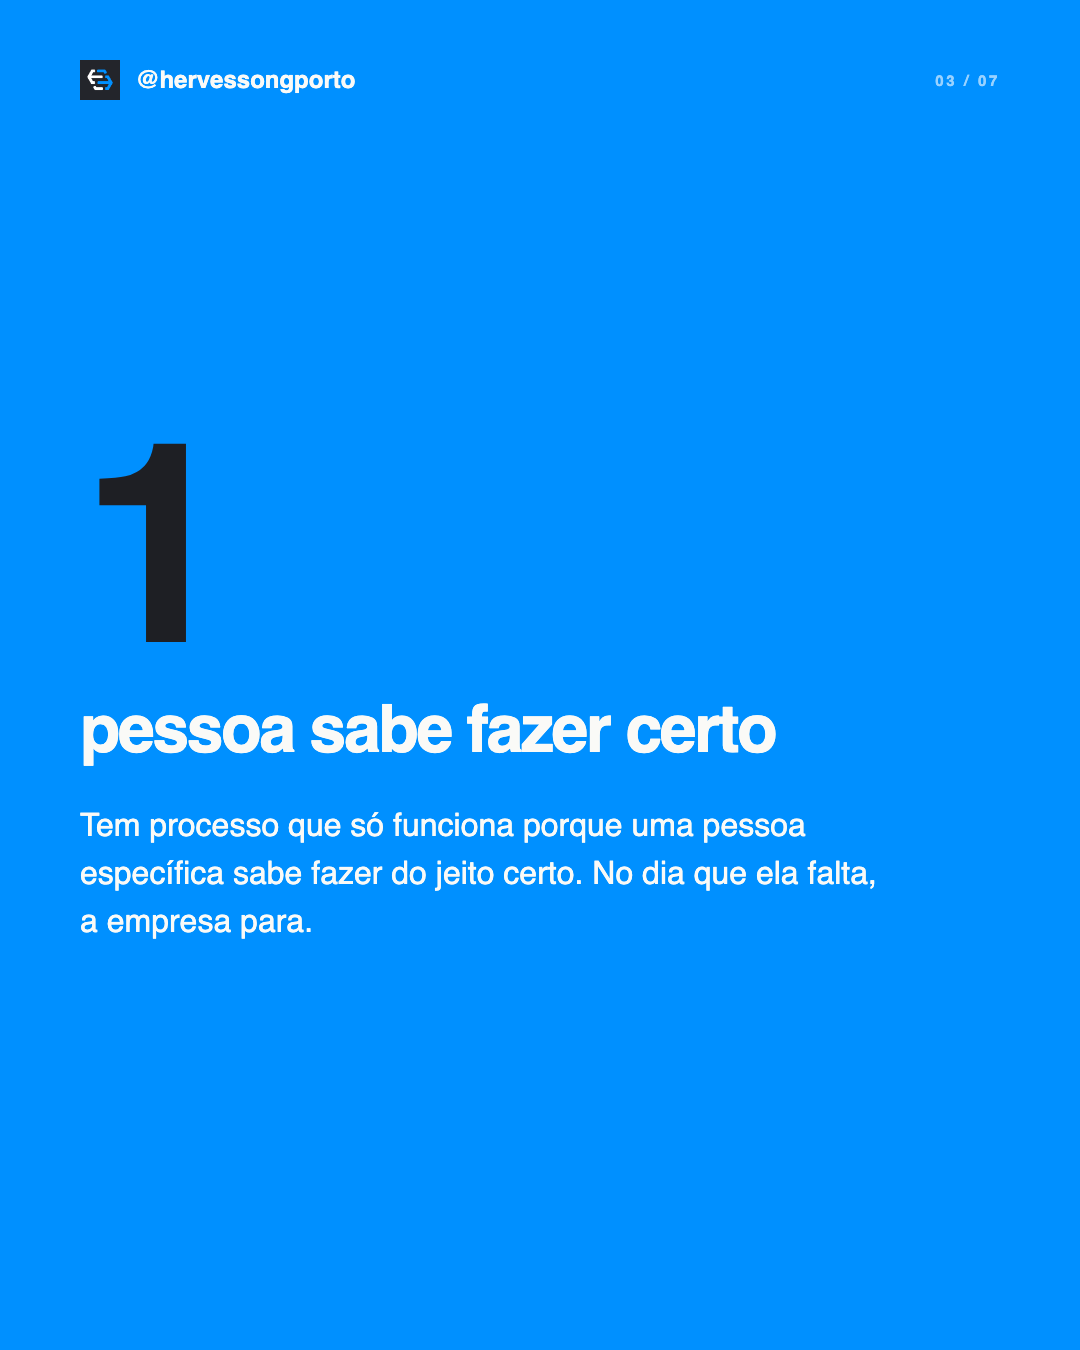
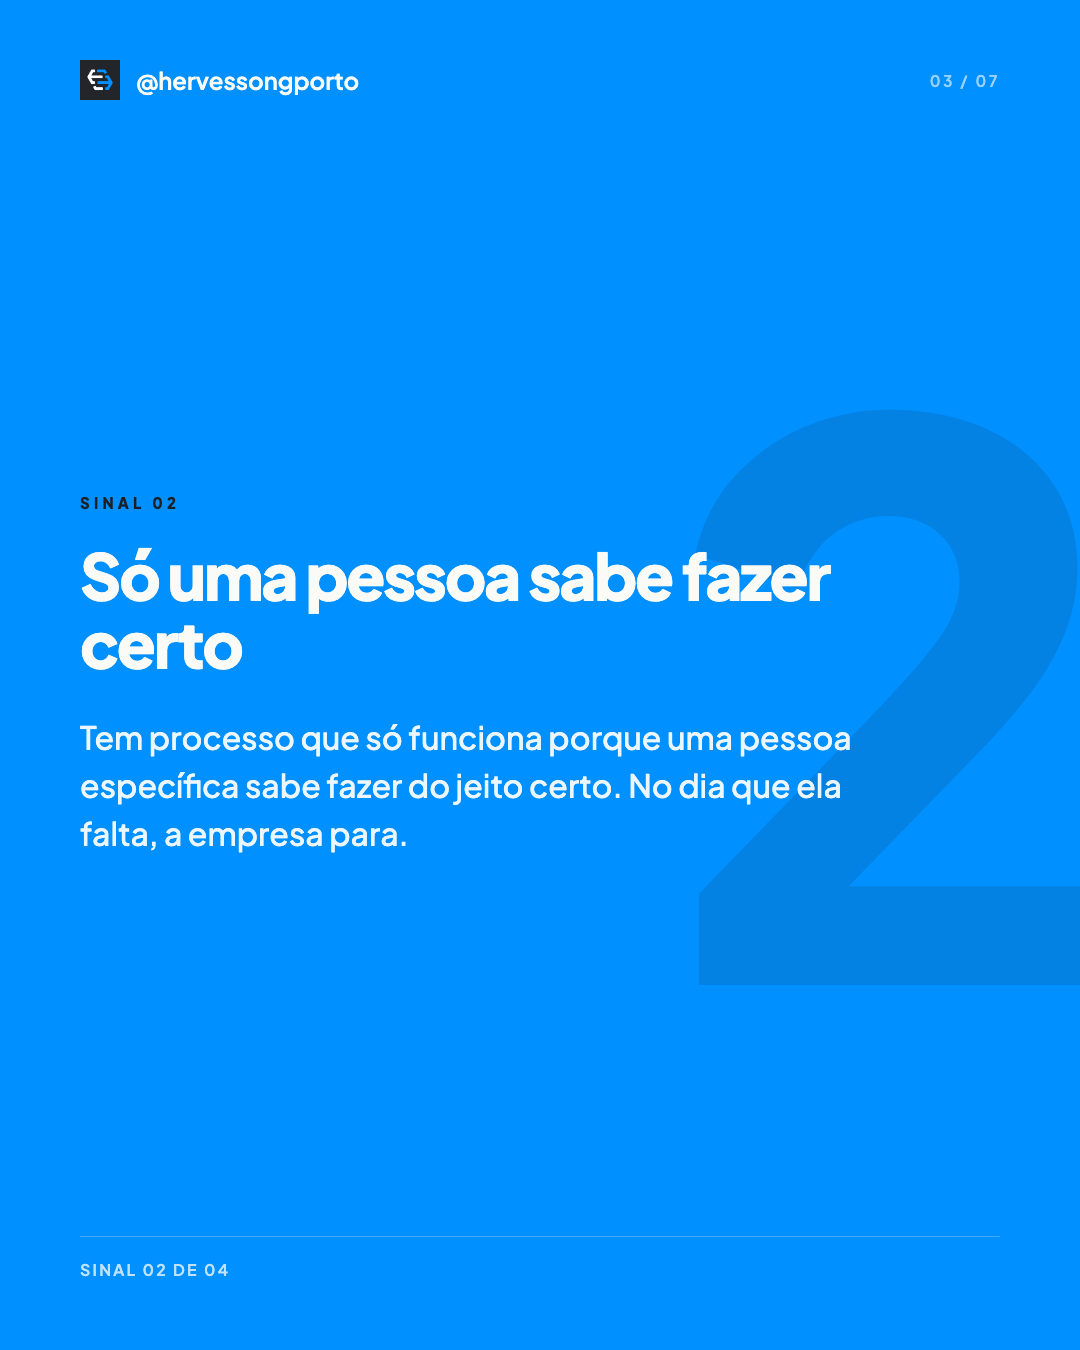
Revisa carrossel ti-forte: capa e CTA novos, layouts numerados e correção da fonte no render

diff --git a/marketing/conteudo/carrossel-ti-forte-2026-07-04/carrossel.html b/marketing/conteudo/carrossel-ti-forte-2026-07-04/carrossel.html
@@ -37,6 +37,7 @@
     display:flex;
     justify-content:space-between;
     align-items:center;
+    z-index:2;
   }
   .brand-row img{height:40px; width:auto;}
   .brand-left{
@@ -53,7 +54,7 @@
 
   .eyebrow{
     font-size:15px; font-weight:800; text-transform:uppercase;
-    letter-spacing:0.28em; color:var(--accent); margin-bottom:28px;
+    letter-spacing:0.28em; color:var(--accent); margin-bottom:30px;
   }
   .bg-accent .eyebrow{color:var(--dark);}
 
@@ -68,39 +69,80 @@
     max-width:880px;
   }
   h2.title{
-    font-size:66px; font-weight:800; line-height:1.05; letter-spacing:-0.035em;
-    max-width:880px; margin-bottom:36px;
+    font-size:64px; font-weight:800; line-height:1.05; letter-spacing:-0.035em;
+    max-width:880px; margin-bottom:32px;
   }
   p.body{
-    font-size:32px; font-weight:500; line-height:1.5; max-width:820px;
+    font-size:32px; font-weight:500; line-height:1.5; max-width:800px;
+    position:relative; z-index:1;
   }
   .bg-cream p.body{color:#444;}
 
-  .handle{
-    font-size:17px; font-weight:600; margin-top:50px;
+  /* NÚMERO — numeral sólido acima do título */
+  .numero-solido{
+    font-size:230px; font-weight:800; color:var(--accent);
+    line-height:0.9; margin-bottom:24px;
   }
 
-  .numero-gigante{
-    font-size:280px; font-weight:800; color:var(--accent);
-    line-height:1; margin-bottom:10px;
+  /* NÚMERO — numeral gigante em marca d'água à direita */
+  .numero-marca{
+    position:absolute;
+    font-size:760px; font-weight:800; line-height:1;
+    right:-40px; top:50%; transform:translateY(-50%);
+    z-index:0; pointer-events:none;
   }
-  .bg-accent .numero-gigante{color:var(--dark);}
+  .bg-cream .numero-marca{color:rgba(0,144,255,0.10);}
+  .bg-accent .numero-marca{color:rgba(30,31,36,0.12);}
+
+  .content{position:relative; z-index:1;}
+
+  /* Dica de arrastar (capa) */
+  .swipe-hint{
+    position:absolute; bottom:70px; left:80px;
+    font-size:20px; font-weight:600; letter-spacing:0.06em;
+    color:var(--muted-dark);
+  }
+
+  /* Rodapé fino dos slides internos escuros */
+  .footer-line{
+    position:absolute; bottom:70px; left:80px; right:80px;
+    border-top:1px solid rgba(255,255,255,0.12);
+    padding-top:22px;
+    font-size:16px; font-weight:600; letter-spacing:0.14em;
+    text-transform:uppercase;
+  }
+  .footer-line.on-dark{color:var(--muted-dark);}
+  .footer-line.on-cream{border-top-color:rgba(30,31,36,0.14); color:var(--muted-light);}
+  .footer-line.on-accent{border-top-color:rgba(255,255,255,0.25); color:rgba(255,255,255,0.75);}
 
   .quote-mark{
-    font-size:220px; font-weight:800; color:var(--accent);
-    opacity:0.18; position:absolute; top:120px; left:70px; line-height:1;
+    font-size:340px; font-weight:800; color:var(--accent);
+    opacity:0.16; position:absolute; top:100px; left:60px; line-height:1;
+    z-index:0;
   }
   .quote-text{
-    font-size:58px; font-weight:800; line-height:1.15; letter-spacing:-0.03em;
+    font-size:56px; font-weight:800; line-height:1.18; letter-spacing:-0.03em;
     max-width:860px; position:relative; z-index:1;
+  }
+  .quote-attr{
+    font-size:24px; font-weight:600; color:var(--muted-dark);
+    margin-top:44px; position:relative; z-index:1;
   }
 
   .cta-headline{
-    font-size:72px; font-weight:800; line-height:1.05; letter-spacing:-0.035em;
-    max-width:820px; margin-bottom:20px;
+    font-size:64px; font-weight:800; line-height:1.08; letter-spacing:-0.035em;
+    max-width:880px; margin-bottom:46px;
   }
-  .cta-sub{
-    font-size:28px; font-weight:500; opacity:0.9; margin-bottom:60px;
+  .cta-btn{
+    display:inline-block;
+    background:var(--dark); color:var(--off-white);
+    font-size:27px; font-weight:700;
+    padding:28px 68px; border-radius:999px;
+    letter-spacing:0.01em;
+  }
+  .cta-handle{
+    font-size:24px; font-weight:600; margin-top:40px;
+    color:rgba(255,255,255,0.85);
   }
 </style>
 </head>
@@ -114,11 +156,14 @@
       <span class="handle-top">@hervessongporto</span>
     </div>
   </div>
-  <div class="eyebrow">TI &amp; ESTRATÉGIA</div>
-  <h1 class="title">Sem TI forte,<br>sua empresa<br>trava sozinha</h1>
+  <div class="content">
+    <div class="eyebrow">TI APLICADA A NEGÓCIOS</div>
+    <h1 class="title">Decidir no feeling<br>tá custando caro<br>pra sua empresa</h1>
+  </div>
+  <div class="swipe-hint">arrasta pro lado &rarr;</div>
 </div>
 
-<!-- SLIDE 2 — TEXTO (claro) -->
+<!-- SLIDE 2 — NÚMERO sólido (claro) -->
 <div class="slide bg-cream">
   <div class="brand-row">
     <div class="brand-left">
@@ -127,12 +172,15 @@
     </div>
     <span class="counter on-cream">02 / 07</span>
   </div>
-  <div class="eyebrow">O PRIMEIRO SINAL</div>
-  <h2 class="title">Decisão no feeling</h2>
-  <p class="body">Toda decisão importante você toma no feeling, porque o dado que deveria te ajudar tá espalhado em três planilhas diferentes, ou não existe.</p>
+  <div class="content">
+    <div class="numero-solido">1</div>
+    <h2 class="title">Decisão no feeling</h2>
+    <p class="body">Toda decisão importante você toma no feeling, porque o dado que deveria te ajudar tá espalhado em três planilhas diferentes, ou não existe.</p>
+  </div>
+  <div class="footer-line on-cream">Sinal 01 de 04</div>
 </div>
 
-<!-- SLIDE 3 — NÚMERO (destaque) -->
+<!-- SLIDE 3 — NÚMERO marca d'água (destaque) -->
 <div class="slide bg-accent">
   <div class="brand-row">
     <div class="brand-left">
@@ -141,12 +189,16 @@
     </div>
     <span class="counter on-accent">03 / 07</span>
   </div>
-  <div class="numero-gigante">1</div>
-  <h2 class="title">pessoa sabe fazer certo</h2>
-  <p class="body">Tem processo que só funciona porque uma pessoa específica sabe fazer do jeito certo. No dia que ela falta, a empresa para.</p>
+  <div class="numero-marca">2</div>
+  <div class="content">
+    <div class="eyebrow">Sinal 02</div>
+    <h2 class="title">Só uma pessoa sabe fazer certo</h2>
+    <p class="body" style="margin-top:36px; color:rgba(255,255,255,0.92);">Tem processo que só funciona porque uma pessoa específica sabe fazer do jeito certo. No dia que ela falta, a empresa para.</p>
+  </div>
+  <div class="footer-line on-accent">Sinal 02 de 04</div>
 </div>
 
-<!-- SLIDE 4 — TEXTO (escuro) -->
+<!-- SLIDE 4 — NÚMERO sólido (escuro) -->
 <div class="slide bg-dark">
   <div class="brand-row">
     <div class="brand-left">
@@ -155,12 +207,15 @@
     </div>
     <span class="counter on-dark">04 / 07</span>
   </div>
-  <div class="eyebrow">FERRAMENTA NÃO É SISTEMA</div>
-  <h2 class="title">Nada conversa com nada</h2>
-  <p class="body">Planilha aqui, WhatsApp ali, sistema que não conversa com nada. Cada ferramenta nova vira mais um lugar pra procurar informação, não menos.</p>
+  <div class="content">
+    <div class="numero-solido">3</div>
+    <h2 class="title">Nada conversa com nada</h2>
+    <p class="body">Planilha aqui, WhatsApp ali, sistema que não conversa com nada. Cada ferramenta nova vira mais um lugar pra procurar informação, não menos.</p>
+  </div>
+  <div class="footer-line on-dark">Sinal 03 de 04</div>
 </div>
 
-<!-- SLIDE 5 — TEXTO (claro) -->
+<!-- SLIDE 5 — NÚMERO marca d'água (claro) -->
 <div class="slide bg-cream">
   <div class="brand-row">
     <div class="brand-left">
@@ -169,9 +224,13 @@
     </div>
     <span class="counter on-cream">05 / 07</span>
   </div>
-  <div class="eyebrow">O ERRO MAIS COMUM</div>
-  <h2 class="title">Crescer multiplica o caos</h2>
-  <p class="body">Crescer sem estrutura de TI não resolve o caos, multiplica ele. Mais cliente, mais gente, mais processo manual quebrando ao mesmo tempo.</p>
+  <div class="numero-marca">4</div>
+  <div class="content">
+    <div class="eyebrow">Sinal 04</div>
+    <h2 class="title">Crescer multiplica o caos</h2>
+    <p class="body" style="margin-top:36px;">Crescer sem estrutura de TI não resolve o caos, multiplica ele. Mais cliente, mais gente, mais processo manual quebrando ao mesmo tempo.</p>
+  </div>
+  <div class="footer-line on-cream">Sinal 04 de 04</div>
 </div>
 
 <!-- SLIDE 6 — CITAÇÃO (escuro) -->
@@ -184,7 +243,10 @@
     <span class="counter on-dark">06 / 07</span>
   </div>
   <div class="quote-mark">&ldquo;</div>
-  <p class="quote-text">Você não precisa virar uma empresa de tecnologia. Precisa de alguém pensando em TI do jeito que pensa em estratégia, antes do problema aparecer, não depois.</p>
+  <div class="content">
+    <p class="quote-text">Você não precisa virar uma empresa de tecnologia. Precisa de alguém pensando em TI do jeito que pensa em estratégia.</p>
+    <div class="quote-attr">— Hervesson Porto</div>
+  </div>
 </div>
 
 <!-- SLIDE 7 — CTA FINAL (destaque) -->
@@ -197,8 +259,9 @@
     <span class="counter on-accent">07 / 07</span>
   </div>
   <img src="../../../identidade/logo-dark.png" alt="logo" style="height:90px; margin-bottom:50px;">
-  <div class="cta-headline">Bora tirar sua<br>empresa do improviso?</div>
-  <div class="cta-sub">Fala comigo</div>
+  <div class="cta-headline">Vamos fazer a tecnologia<br>trabalhar pra sua empresa?</div>
+  <div><span class="cta-btn">Fala comigo</span></div>
+  <div class="cta-handle">@hervessongporto</div>
 </div>
 
 </body>

diff --git a/marketing/conteudo/carrossel-ti-forte-2026-07-04/render.js b/marketing/conteudo/carrossel-ti-forte-2026-07-04/render.js
@@ -4,10 +4,11 @@ const path = require('path');
 (async () => {
   const browser = await chromium.launch();
   const page = await browser.newPage({ viewport: { width: 1080, height: 1350 } });
-  await page.route(/fonts\.(googleapis|gstatic)\.com/, route => route.abort());
   const htmlPath = path.join(__dirname, 'carrossel.html');
-  await page.goto('file://' + htmlPath, { waitUntil: 'domcontentloaded', timeout: 10000 }).catch(() => {});
-  await page.waitForTimeout(500);
+  await page.goto('file://' + htmlPath, { waitUntil: 'networkidle', timeout: 30000 });
+  // garante que as web fonts terminaram de carregar antes do screenshot
+  await page.evaluate(() => document.fonts.ready);
+  await page.waitForTimeout(300);
 
   const slides = await page.$$('.slide');
   for (let i = 0; i < slides.length; i++) {

diff --git a/marketing/conteudo/carrossel-ti-forte-2026-07-04/texto.md b/marketing/conteudo/carrossel-ti-forte-2026-07-04/texto.md
@@ -1,21 +1,28 @@
-# Carrossel — Sem TI forte, sua empresa trava sozinha
+# Carrossel — Decidir no feeling tá custando caro
 
 Tipo: carrossel texto puro
-Data: 2026-07-04
-Tema: Por que empresários travam sem uma TI forte
+Data: 2026-07-04 (revisado em 2026-07-07)
+Tema: Os 4 sinais de que a empresa roda sem TI aplicada a negócios
+
+> Revisão 2026-07-07: capa reescrita (era "Sem TI forte, sua empresa trava
+> sozinha" — "TI forte" soava como infra; o core é **TI aplicada a negócios**).
+> Layouts refeitos no padrão da skill e bug de fonte no render corrigido.
 
 ## Slides
 
-1. **CAPA** — Sem TI forte, sua empresa trava sozinha
-2. Decisão no feeling — o dado que deveria ajudar tá espalhado em três planilhas, ou não existe
-3. 1 pessoa sabe fazer certo — processo que só funciona porque alguém específico sabe fazer, e trava quando essa pessoa falta
-4. Nada conversa com nada — planilha, WhatsApp, sistema isolado; cada ferramenta nova vira mais um lugar pra procurar informação
-5. Crescer multiplica o caos — crescer sem estrutura de TI não resolve, multiplica o problema
-6. Citação — "Você não precisa virar uma empresa de tecnologia. Precisa de alguém pensando em TI do jeito que pensa em estratégia — antes do problema aparecer, não depois."
-7. **CTA FINAL** — Bora tirar sua empresa do improviso? / Fala comigo / @hervessonporto
+1. **CAPA** (escuro, sem contador) — eyebrow "TI APLICADA A NEGÓCIOS" / Decidir no feeling tá custando caro pra sua empresa / arrasta pro lado →
+2. **NÚMERO 1** (claro) — Decisão no feeling — o dado que deveria ajudar tá espalhado em três planilhas, ou não existe
+3. **NÚMERO 2** (azul, marca d'água) — Só uma pessoa sabe fazer certo — processo que trava quando essa pessoa falta
+4. **NÚMERO 3** (escuro) — Nada conversa com nada — planilha, WhatsApp, sistema isolado; cada ferramenta nova vira mais um lugar pra procurar informação
+5. **NÚMERO 4** (claro, marca d'água) — Crescer multiplica o caos — crescer sem estrutura de TI não resolve, multiplica o problema
+6. **CITAÇÃO** (escuro) — "Você não precisa virar uma empresa de tecnologia. Precisa de alguém pensando em TI do jeito que pensa em estratégia." — Hervesson Porto
+7. **CTA FINAL** (azul) — Vamos fazer a tecnologia trabalhar pra sua empresa? / botão "Fala comigo" / @hervessongporto
 
 ## Notas de produção
 
-- Fonte usada no render: **Plus Jakarta Sans** (Google Fonts), como substituta de "Typo Angular Rounded" — a fonte da marca não está disponível como web font. Se você tiver o arquivo da fonte original (.otf/.ttf/.woff2), me passa que eu troco no HTML.
-- Cores aplicadas: fundo escuro `#1E1F24`, fundo claro `#FAFAF7`, destaque `#0090FF` (hex estimado — ajustar se tiver o valor exato da marca).
-- Logo usado: `identidade/logo-dark.png` (fundos escuro/azul) e `identidade/logo-light.png` (fundo claro).
+- Fonte: **Plus Jakarta Sans** (Google Fonts), substituta de "Typo Angular Rounded". ⚠ O `render.js` original bloqueava o Google Fonts (`route.abort()`) e os PNGs saíam em fonte fallback — corrigido: render aguarda `document.fonts.ready`.
+- Cores: fundo escuro `#1E1F24`, fundo claro `#FAFAF7`, destaque `#0090FF`.
+- Ritmo de fundos: escuro → claro → azul → escuro → claro → escuro → azul (sem repetição consecutiva).
+- Layouts: CAPA / NÚMERO sólido / NÚMERO marca d'água / CITAÇÃO / CTA FINAL, com régua azul, contador em todos os slides e rodapé "SINAL X DE 04" nos slides internos.
+- Logo: `identidade/logo-dark.png` (fundos escuro/azul) e `identidade/logo-light.png` (fundo claro).
+- Handle `@hervessongporto` no topo esquerdo de todos os slides.

diff --git a/marketing/conteudo/carrossel-ti-forte-2026-07-04/legenda.md b/marketing/conteudo/carrossel-ti-forte-2026-07-04/legenda.md
@@ -1,10 +1,10 @@
-Sua empresa trava e você acha que é falta de gente, de dinheiro ou de tempo?
+Quantas decisões importantes você tomou esse mês no "acho que"?
 
-Na maioria das vezes o problema é outro: não existe estrutura de TI por trás das decisões. Dado espalhado, processo que só uma pessoa sabe fazer, ferramenta que não conversa com ferramenta nenhuma — e o caos só cresce junto com o negócio.
+Na maioria das empresas o problema não é falta de gente, dinheiro ou tempo: é não ter estrutura de TI por trás das decisões. Dado espalhado, processo que só uma pessoa sabe fazer, ferramenta que não conversa com ferramenta nenhuma — e o caos só cresce junto com o negócio.
 
-Arrasta pro lado e confere os sinais de que sua empresa tá rodando no improviso.
+Arrasta pro lado e confere os 4 sinais de que sua empresa tá rodando no improviso.
 
-Aplico TI com IA em negócios que precisam de estrutura e não têm um TI forte como background. Não é sobre virar empresa de tecnologia — é sobre ter alguém pensando nisso antes do problema aparecer.
+Aplico TI e IA em negócios que precisam de estrutura e não têm tecnologia como background. Não é sobre virar empresa de tecnologia — é sobre ter alguém pensando nisso antes do problema aparecer.
 
 Chama no direct ou no link da bio.
 

diff --git a/marketing/conteudo/carrossel-ti-forte-2026-07-04/legenda-linkedin.md b/marketing/conteudo/carrossel-ti-forte-2026-07-04/legenda-linkedin.md
@@ -2,7 +2,7 @@ Por que empresas travam mesmo crescendo?
 
 Na prática, quase sempre é o mesmo motivo: decisão tomada no feeling, processo que depende de uma única pessoa, ferramentas que não conversam entre si. Isso não é falta de dinheiro — é ausência de estrutura de TI pensada como parte da estratégia, não como departamento à parte.
 
-Trabalho aplicando TI e IA em negócios de empresários que não têm um TI forte como background. O objetivo não é transformar a empresa em uma empresa de tecnologia, e sim colocar alguém pensando nisso antes do problema aparecer.
+Trabalho aplicando TI e IA em negócios de empresários que não têm tecnologia como background. O objetivo não é transformar a empresa em uma empresa de tecnologia, e sim colocar alguém pensando nisso antes do problema aparecer.
 
 Se esse cenário é familiar, fica à vontade para me chamar.
 

diff --git a/identidade/design-guide.md b/identidade/design-guide.md
@@ -40,6 +40,7 @@ Geométrico e direto — ícone hexagonal com setas, sem floreios. Combina com o
 
 ## Elementos-chave
 
+- **Capa de carrossel: sem contador de páginas** (o "01/07" só aparece do slide 2 em diante) — definido em 2026-07-07
 - Bordas: cantos arredondados (consistente com "Angular Rounded")
 - Border-radius dos cards: não informado
 - Botões: não informado
